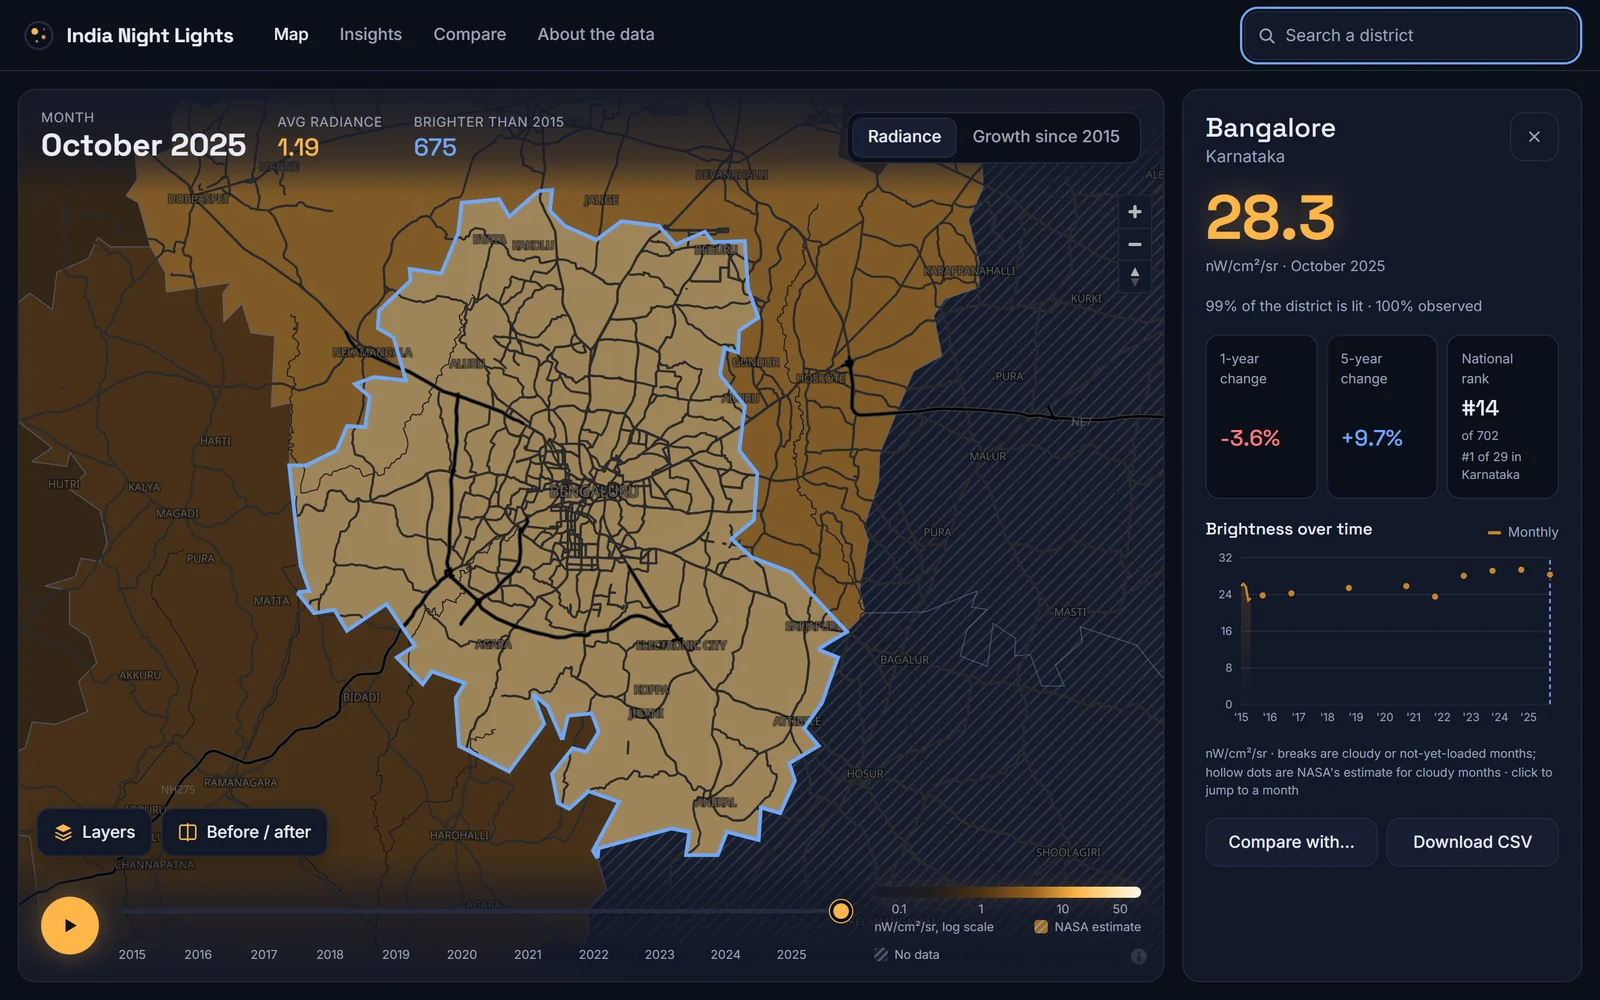
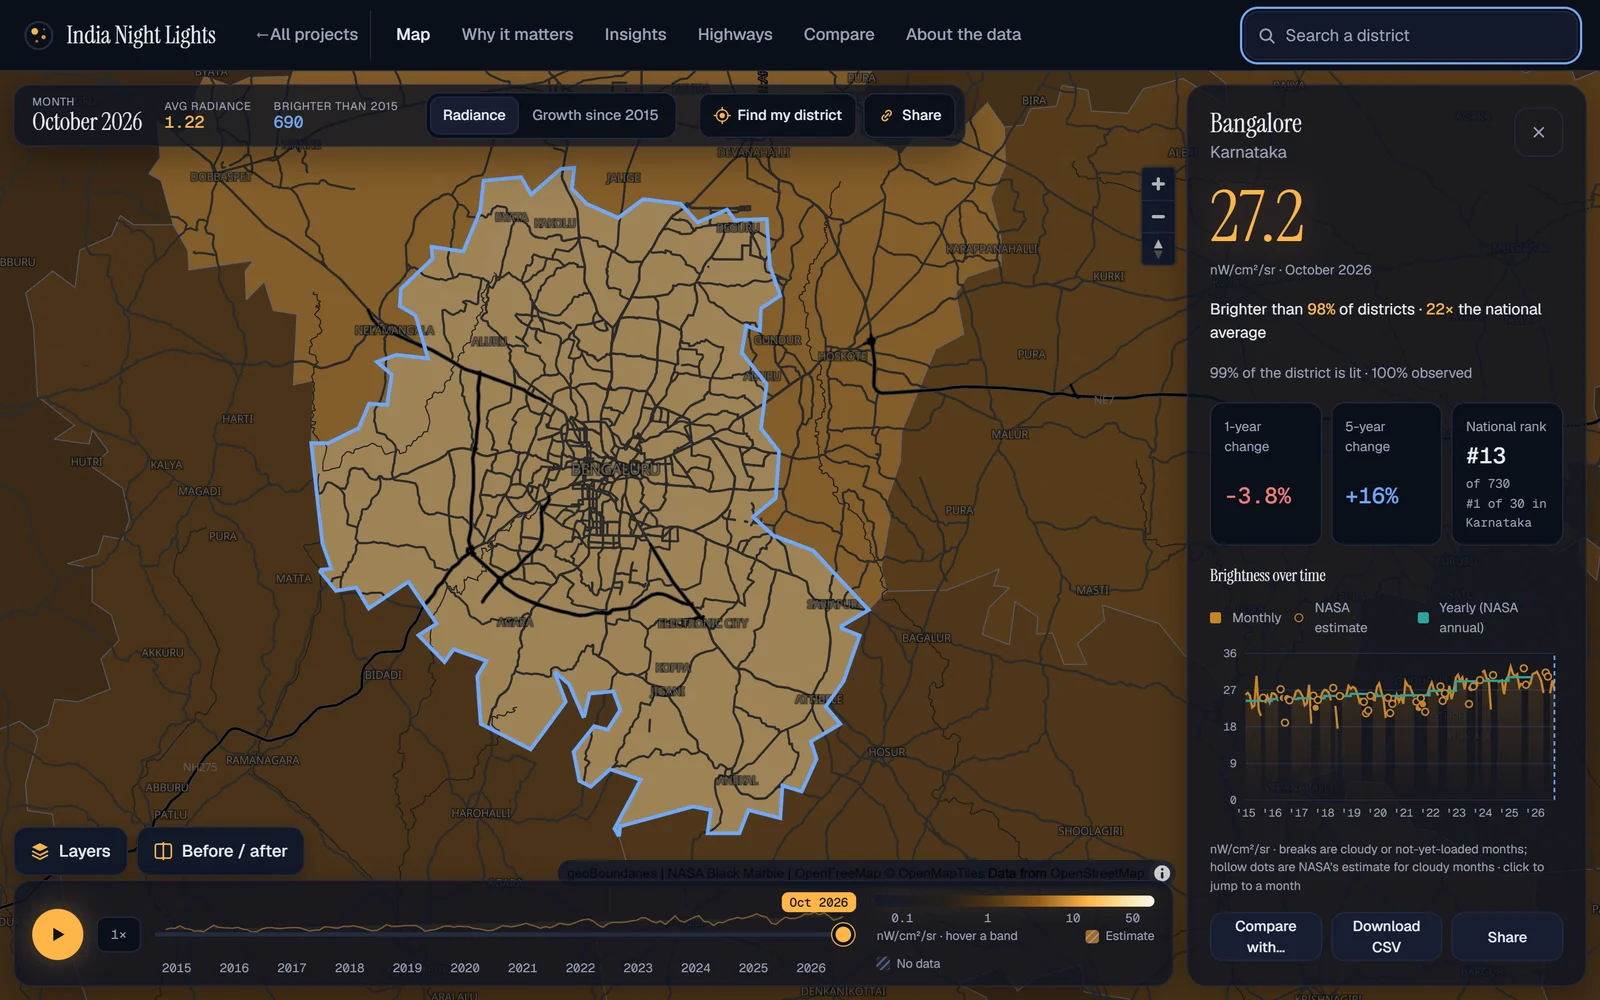
Add India from data section; update Night Lights case study

diff --git a/index.html b/index.html
@@ -55,16 +55,6 @@
   <div class="wrap">
     <div class="sec-head"><span class="label">Selected work</span><h2 id="work-h">Case studies</h2></div>
     <div class="grid">
-<a class="card founder card-wide" href="india-night-lights.html">
-  <img class="card-thumb" src="img/india-night-lights/hero-thumb.webp" alt="Map of India's districts at night, October 2025, coloured from dark to bright amber" width="720" height="450" loading="lazy">
-  <div class="card-body">
-    <div class="card-top"><span class="co">Side project · 2026</span><span class="badge">Side project</span></div>
-    <div class="metrics"><div class="metric"><b>735</b><span>districts</span></div><div class="metric"><b>₹0</b><span>monthly running cost</span></div></div>
-    <h3>India Night Lights: India&#x27;s growth, seen from space</h3>
-    <p>A free web map of how bright each Indian district is at night, month by month since 2015, built from NASA satellite data.</p>
-    <span class="more">Read more <svg viewBox="0 0 24 24" fill="none" stroke="currentColor" stroke-width="2" stroke-linecap="round" stroke-linejoin="round" aria-hidden="true"><path d="M5 12h14M13 6l6 6-6 6"></path></svg></span>
-  </div>
-</a>
 <a class="card" href="ai-compute.html">
   <div class="card-top"><span class="logos"><span class="logo"><img src="siterecon.png" alt="SiteRecon logo" width="335" height="64"></span></span><span class="co">SiteRecon · 2026</span></div>
   <div class="metrics"><div class="metric"><b>−55%</b><span>compute cost</span></div><div class="metric"><b>−75%</b><span>delivery time</span></div></div>
@@ -122,6 +112,39 @@
   <span class="more">Read more <svg viewBox="0 0 24 24" fill="none" stroke="currentColor" stroke-width="2" stroke-linecap="round" stroke-linejoin="round" aria-hidden="true"><path d="M5 12h14M13 6l6 6-6 6"></path></svg></span>
 </a>
     </div>
+  </div>
+</section>
+
+<section class="section side" id="side" aria-labelledby="side-h">
+  <div class="wrap">
+    <div class="sec-head"><span class="label">Outside work</span><h2 id="side-h">India from data</h2><p>A set of free maps I build in my own time, turning satellite and public data into stories about India. Each one is built end to end, from the data pipeline to the page.</p></div>
+    <div class="side-grid">
+<a class="side-card" href="india-night-lights.html">
+  <img src="img/india-from-data/night-lights.webp" alt="Map of India's districts at night, coloured from dark to bright amber" width="720" height="450" loading="lazy">
+  <h3>India Night Lights</h3>
+  <p>How bright every district is at night, monthly since 2015, from NASA satellite data.</p>
+  <span class="more">Read the case study <svg viewBox="0 0 24 24" fill="none" stroke="currentColor" stroke-width="2" stroke-linecap="round" stroke-linejoin="round" aria-hidden="true"><path d="M5 12h14M13 6l6 6-6 6"></path></svg></span>
+</a>
+<a class="side-card" href="https://manishkkk18.github.io/data/india/smoke-watch/" target="_blank" rel="noopener">
+  <img src="img/india-from-data/smoke-watch.webp" alt="Map of farm-fire detections and wind arrows across north India, with Delhi's air quality in a side panel" width="720" height="450" loading="lazy">
+  <h3>India Smoke Watch</h3>
+  <p>Whose smoke is your city breathing today? Farm fires, wind and air quality across India.</p>
+  <span class="more">Open the map <svg viewBox="0 0 24 24" fill="none" stroke="currentColor" stroke-width="2" stroke-linecap="round" stroke-linejoin="round" aria-hidden="true"><path d="M7 17L17 7M9 7h8v8"></path></svg></span>
+</a>
+<a class="side-card" href="https://manishkkk18.github.io/data/india/monsoon/" target="_blank" rel="noopener">
+  <img src="img/india-from-data/monsoon.webp" alt="Map of Indian districts shaded by 2026 monsoon rainfall against normal, from brown for deficit to teal for excess" width="720" height="450" loading="lazy">
+  <h3>The Monsoon, District by District</h3>
+  <p>Did the 2026 monsoon show up for your district? Rain against normal, week by week.</p>
+  <span class="more">Open the map <svg viewBox="0 0 24 24" fill="none" stroke="currentColor" stroke-width="2" stroke-linecap="round" stroke-linejoin="round" aria-hidden="true"><path d="M7 17L17 7M9 7h8v8"></path></svg></span>
+</a>
+<a class="side-card" href="https://manishkkk18.github.io/data/india/manufacturing-insights/" target="_blank" rel="noopener">
+  <img src="img/india-from-data/manufacturing-insights.webp" alt="Page headline "Is India actually becoming a factory?" above factory output and jobs figures" width="720" height="450" loading="lazy">
+  <h3>Is India Actually Becoming a Factory?</h3>
+  <p>Is Make in India visible in the data? Factory output, jobs and productivity, by industry and state.</p>
+  <span class="more">Open the page <svg viewBox="0 0 24 24" fill="none" stroke="currentColor" stroke-width="2" stroke-linecap="round" stroke-linejoin="round" aria-hidden="true"><path d="M7 17L17 7M9 7h8v8"></path></svg></span>
+</a>
+    </div>
+    <p class="side-all"><a href="https://manishkkk18.github.io/data/india/" target="_blank" rel="noopener">See all of India from data <svg viewBox="0 0 24 24" fill="none" stroke="currentColor" stroke-width="2" stroke-linecap="round" stroke-linejoin="round" aria-hidden="true"><path d="M7 17L17 7M9 7h8v8"></path></svg></a></p>
   </div>
 </section>
 

diff --git a/india-night-lights.html b/india-night-lights.html
@@ -35,11 +35,11 @@
     <h1>India Night Lights: India&#x27;s growth, seen from space</h1>
     <div class="tags"><span class="tag">Side project</span><span class="tag">Data product</span><span class="tag">Maps</span><span class="tag">Built end to end</span></div>
     <div class="inl-actions">
-      <a class="btn btn-primary" href="https://manishkkk18.github.io/india-night-lights/" target="_blank" rel="noopener">Open the live site →</a>
+      <a class="btn btn-primary" href="https://manishkkk18.github.io/data/india/night-lights/" target="_blank" rel="noopener">Open the live site →</a>
       <a class="btn btn-ghost" href="https://github.com/manishkkk18/india-night-lights" target="_blank" rel="noopener">Code on GitHub →</a>
     </div>
   </div>
-  <figure class="inl-shot inl-hero"><img src="img/india-night-lights/hero.webp" alt="India Night Lights showing every Indian district at night in October 2025, coloured from dark to bright amber, with the national average in a side panel" width="1600" height="1000"></figure>
+  <figure class="inl-shot inl-hero"><img src="img/india-night-lights/hero.webp" alt="India Night Lights showing every Indian district at night in October 2026, coloured from dark to bright amber, with three stories from the data in a side panel" width="1600" height="1000"></figure>
   <div class="d-body">
     <section class="block b-ctx" aria-labelledby="h-ctx"><h2 id="h-ctx">Context</h2><p>Night-time brightness is one of the few growth signals available for every district, every month. But NASA&#x27;s data comes as about 1 GB of raw files per month, which only GIS specialists can use.</p></section>
     <section class="block b-did" aria-labelledby="h-did"><h2 id="h-did">What I did</h2><ul><li>Wrote a Python pipeline that downloads NASA Black Marble data and works out stats for each of India&#x27;s 735 districts.</li><li>Built a web app that runs on static files only (React, TypeScript, MapLibre), hosted on GitHub Pages with no backend.</li><li>Features: a time slider with Play through every month since 2015, a Radiance / Growth toggle, a 3D lights skyline, a before/after swipe, district search that knows common names, a side panel with ranks and a trend chart, Compare, Insights, the Diwali effect and a cross-check against ISRO Bhuvan.</li><li>Set up a monthly GitHub Action that processes new months and redeploys the site.</li></ul></section>
@@ -66,7 +66,7 @@
         <figure class="inl-fig"><div class="inl-shot"><img src="img/india-night-lights/skyline-3d.webp" alt="3D view of India on a tilted globe, with districts rising as columns by night-time brightness" width="1600" height="1000" loading="lazy"></div><figcaption>3D lights skyline: districts rise by brightness on a tilted globe.</figcaption></figure>
         <figure class="inl-fig"><div class="inl-shot"><img src="img/india-night-lights/growth-since-2015.webp" alt="Map of India coloured by change in brightness since October 2015, mostly blue for brighter with a few red districts" width="1600" height="1000" loading="lazy"></div><figcaption>Growth since 2015: each district against the same month in 2015, red for dimmer, blue for brighter.</figcaption></figure>
         <figure class="inl-fig"><div class="inl-shot"><img src="img/india-night-lights/district-panel.webp" alt="Bengaluru selected on the map, with a side panel showing its radiance, 1-year and 5-year change, national rank and a trend chart" width="1600" height="1000" loading="lazy"></div><figcaption>Search any district by its common name to see its ranks, 1-year and 5-year change and trend.</figcaption></figure>
-        <figure class="inl-fig"><div class="inl-shot"><img src="img/india-night-lights/insights-diwali.webp" alt="Insights lists of the fastest-brightening and brightest districts, above the Diwali effect chart for major cities" width="1600" height="1000" loading="lazy"></div><figcaption>Insights and the Diwali effect: fastest-brightening and brightest districts, and how much brighter 8 cities get on Diwali night.</figcaption></figure>
+        <figure class="inl-fig"><div class="inl-shot"><img src="img/india-night-lights/insights.webp" alt="Insights lists of the fastest-brightening and brightest districts, with a table of 8 major cities" width="1600" height="1000" loading="lazy"></div><figcaption>Insights: the fastest-brightening districts, the brightest ones and 8 major cities.</figcaption></figure>
       </div>
       <div class="inl-mobile">
         <figure class="inl-shot"><img src="img/india-night-lights/mobile.webp" alt="The site on a phone, with Bengaluru's details open in a bottom sheet" width="780" height="1688" loading="lazy"></figure>

diff --git a/style.css b/style.css
@@ -263,7 +263,6 @@ ol.path li.is-founder .when{color:var(--accent-ink)}
 .form-status.err{color:#B91C1C}
 
 /* India Night Lights */
-.card-thumb{display:block;width:100%;height:auto;aspect-ratio:16/10;object-fit:cover;border-radius:calc(var(--radius) - 6px);border:1px solid var(--line);background:var(--surface-2)}
 .inl-actions{display:flex;flex-wrap:wrap;gap:10px}
 .btn-primary{background:var(--accent);color:#fff}
 .btn-primary:hover{color:#fff;filter:brightness(1.06)}
@@ -272,11 +271,6 @@ ol.path li.is-founder .when{color:var(--accent-ink)}
 .inl-shot{margin:0;border:1px solid var(--line);border-radius:var(--radius);overflow:hidden;background:var(--surface-2);box-shadow:var(--shadow)}
 .inl-shot img{width:100%;height:auto}
 .inl-hero{margin-bottom:clamp(32px,4vw,48px)}
-.card-body{display:flex;flex-direction:column;gap:16px;min-width:0;flex:1}
-@media (min-width:720px){
-  a.card.card-wide{grid-column:1/-1;flex-direction:row;align-items:stretch;gap:clamp(24px,3vw,36px)}
-  a.card.card-wide .card-thumb{flex:0 0 52%;width:52%;align-self:center}
-}
 .inl-more{display:flex;flex-direction:column;gap:clamp(40px,5vw,64px);padding-block:clamp(32px,4vw,48px) clamp(40px,6vw,72px);border-top:1px solid var(--line)}
 .block .inl-decisions li b{color:var(--ink)}
 .inl-flow{list-style:none;margin:0;padding:0;display:grid;grid-template-columns:minmax(0,1fr);gap:28px;counter-reset:step}
@@ -299,3 +293,26 @@ ol.path li.is-founder .when{color:var(--accent-ink)}
 .inl-mobile p{font-size:17px;color:var(--muted);max-width:40ch}
 .block p.inl-caveat{font-size:16px;color:var(--muted);border-left:3px solid var(--accent);padding-left:14px;max-width:70ch}
 .inl-caveat b{color:var(--ink)}
+
+/* India from data */
+.side .sec-head h2{font-size:clamp(24px,3vw,32px)}
+.side-grid{display:grid;grid-template-columns:minmax(0,1fr);gap:14px}
+@media (min-width:560px){.side-grid{grid-template-columns:repeat(2,minmax(0,1fr))}}
+@media (min-width:1000px){.side-grid{grid-template-columns:repeat(4,minmax(0,1fr))}}
+a.side-card{display:flex;flex-direction:column;gap:8px;padding:12px 12px 16px;background:var(--surface);border:1px solid var(--line);border-radius:var(--radius);color:var(--ink);text-decoration:none;min-width:0;transition:border-color .2s}
+a.side-card:hover{border-color:color-mix(in srgb,var(--accent) 45%,var(--line));color:var(--ink)}
+a.side-card img{width:100%;height:auto;aspect-ratio:16/10;object-fit:cover;border-radius:10px;border:1px solid var(--line);background:var(--surface-2);margin-bottom:4px}
+a.side-card h3{font-size:16.5px;font-weight:700;letter-spacing:-.01em;line-height:1.3;padding-inline:4px}
+a.side-card p{font-size:14px;line-height:1.5;color:var(--muted);padding-inline:4px}
+a.side-card .more{padding-inline:4px;font-size:12.5px}
+a.side-card .more svg{width:14px;height:14px}
+.side-all{margin-top:18px}
+.side-all a{display:inline-flex;align-items:center;gap:6px;font-family:var(--label);font-size:13px;font-weight:600}
+.side-all svg{width:14px;height:14px}
+@media (max-width:559px){
+  a.side-card{display:grid;grid-template-columns:108px minmax(0,1fr);column-gap:12px;row-gap:4px;padding:10px;align-items:start}
+  a.side-card img{grid-row:1/4;margin:0;border-radius:8px}
+  a.side-card h3{font-size:15.5px;padding:0}
+  a.side-card p{font-size:13.5px;padding:0;display:-webkit-box;-webkit-line-clamp:2;-webkit-box-orient:vertical;overflow:hidden}
+  a.side-card .more{padding:0}
+}
